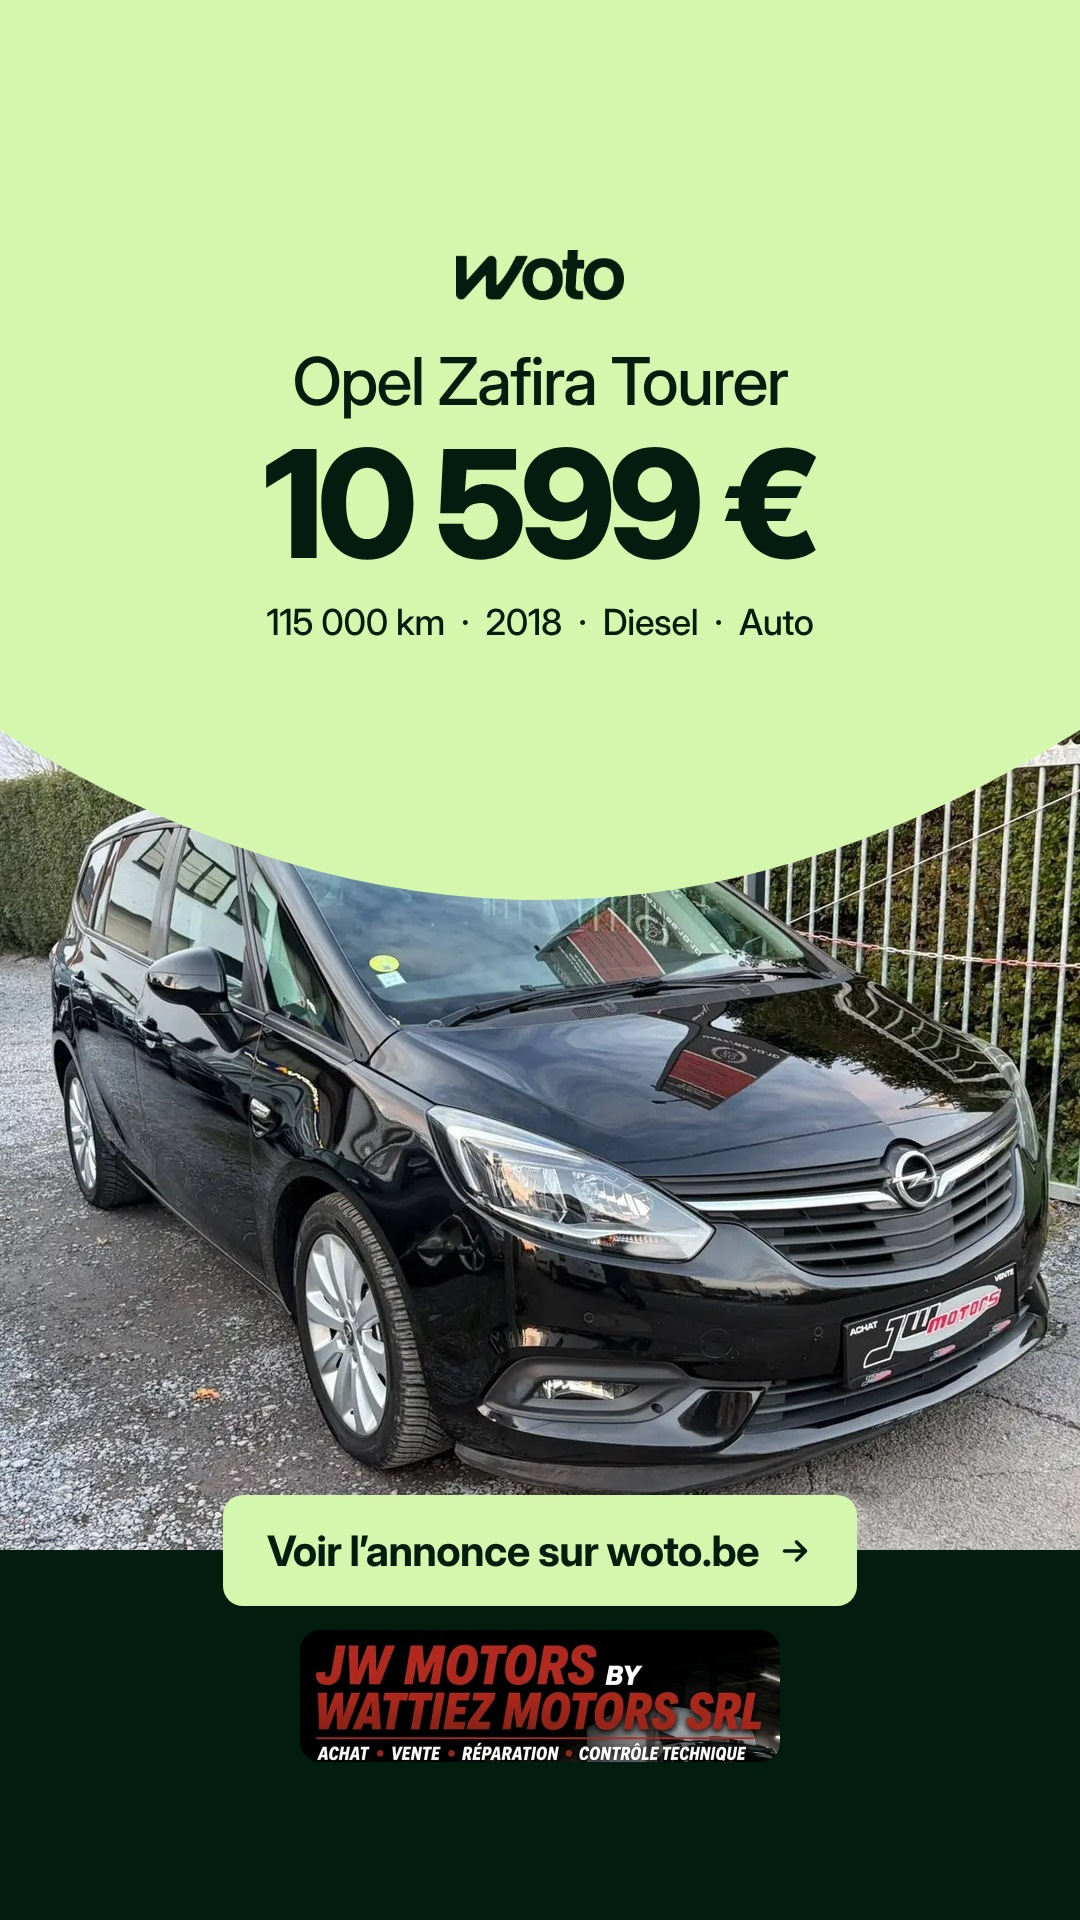
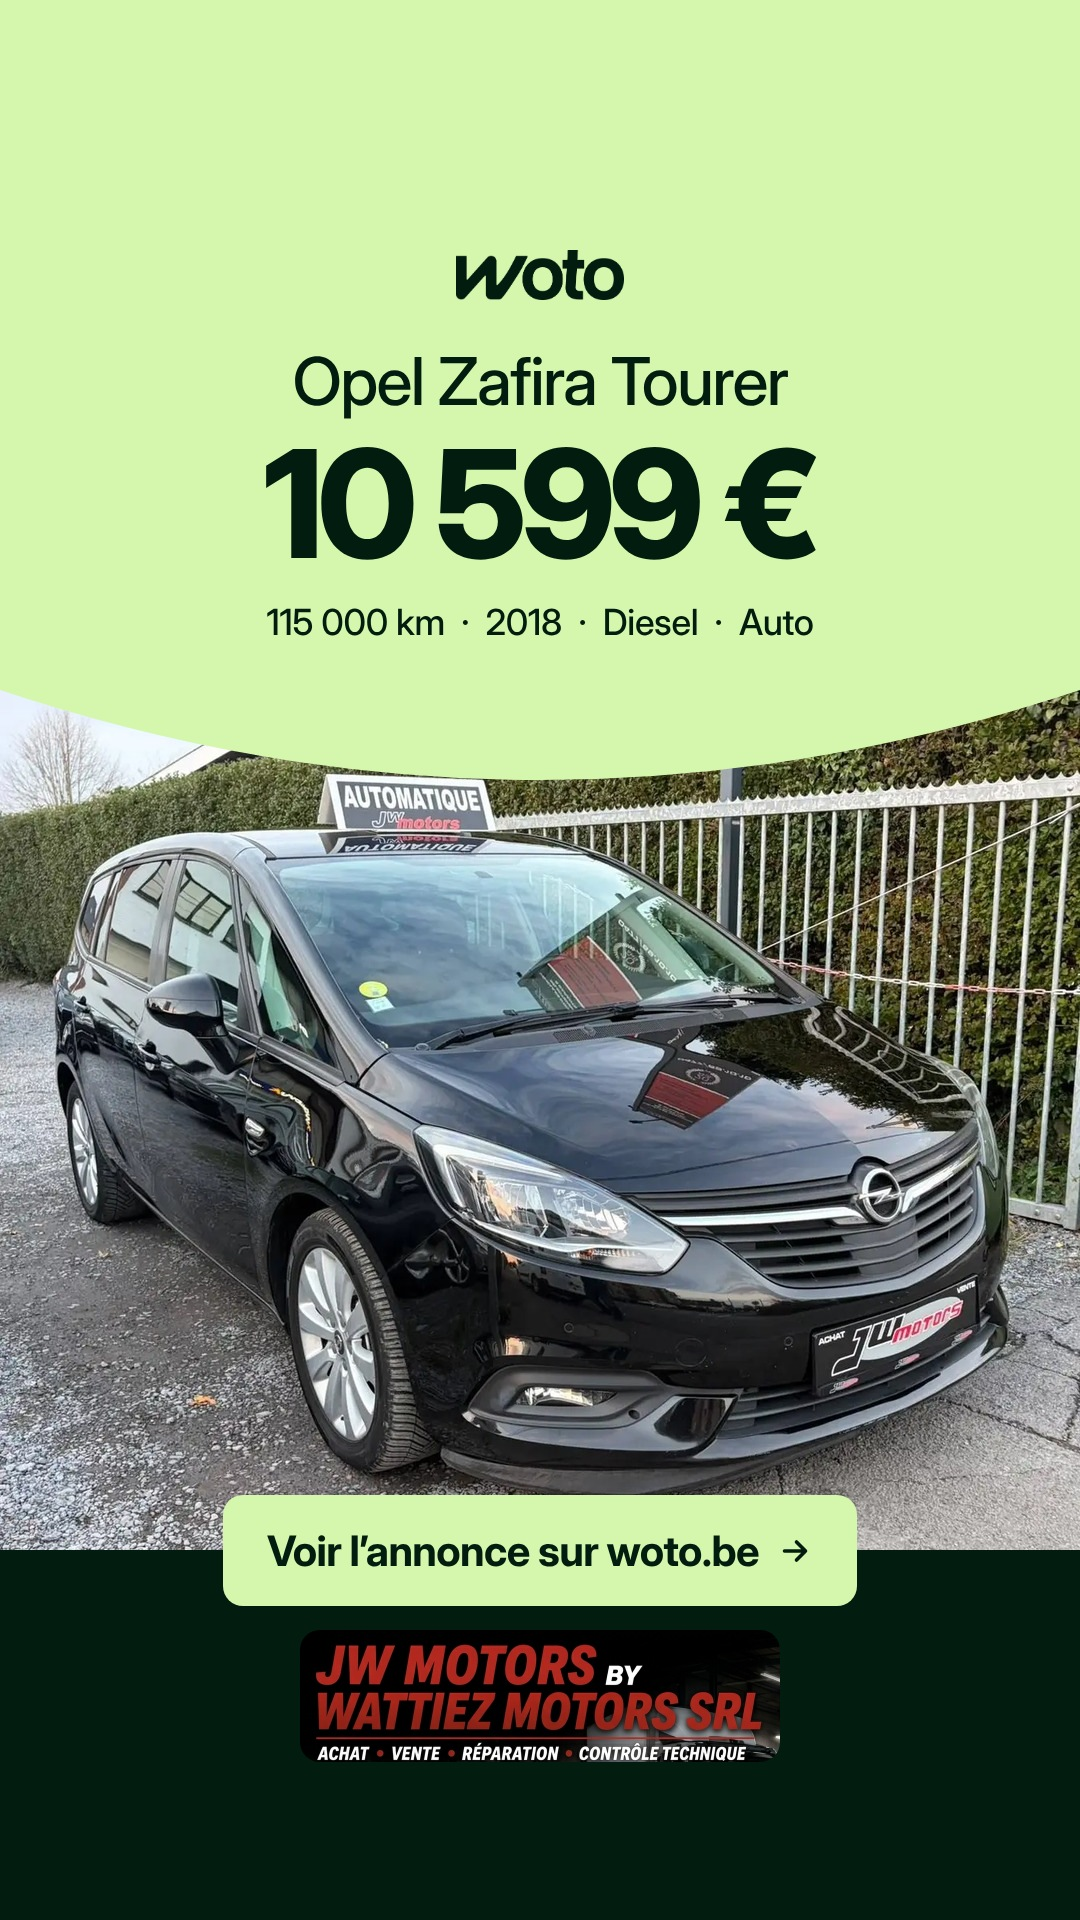
Zafira au gabarit validé et règle de contrôle du visuel
Claude-Session: https://claude.ai/code/session_01BfDPyyb2PXNERkVvoFq1nv

Changed region(s): [[0.0, 0.3438, 1.0, 0.8125]]

diff --git a/RULES.md b/RULES.md
@@ -12,7 +12,8 @@ Créneaux, heure de Bruxelles : 7h30, 16h00, 20h00, tous les jours. Une story pa
 - Rendu avec `scripts/render_story.py`, sans changer le gabarit.
 - Photo : première photo de la galerie sans cadre ni bandeau de garage, qui montre la voiture entière. Régler `--focus` pour centrer la voiture.
 - Logo : celui de `assets/logos/` s'il existe, sinon celui de la fiche. S'il s'agit d'une affiche, garder seulement le bandeau avec le nom.
-- Regarder le JPEG avant publication : voiture lisible, texte exact, logo propre. Sinon changer de photo ou de voiture.
+- Gabarit validé par Vincent le 4 novembre 2026 (courbe haute, voir `stories/2026-11-04/`) : ne pas modifier la courbe, les couleurs, la typo ni les positions.
+- Regarder le JPEG avant publication et le comparer à `stories/2026-11-04/woto-annonce-trafic.jpg`. La voiture doit être entière et bien visible : toit jamais coupé par la courbe, roues et pare-chocs jamais coupés par les bords ni cachés par le bouton. Texte exact, logo propre. Si ce n'est pas le cas, régler `--focus`, changer de photo ou de voiture. Ne jamais publier un visuel qui ne respecte pas ces points.
 - Jamais d'image générée par IA.
 
 ## Texte
